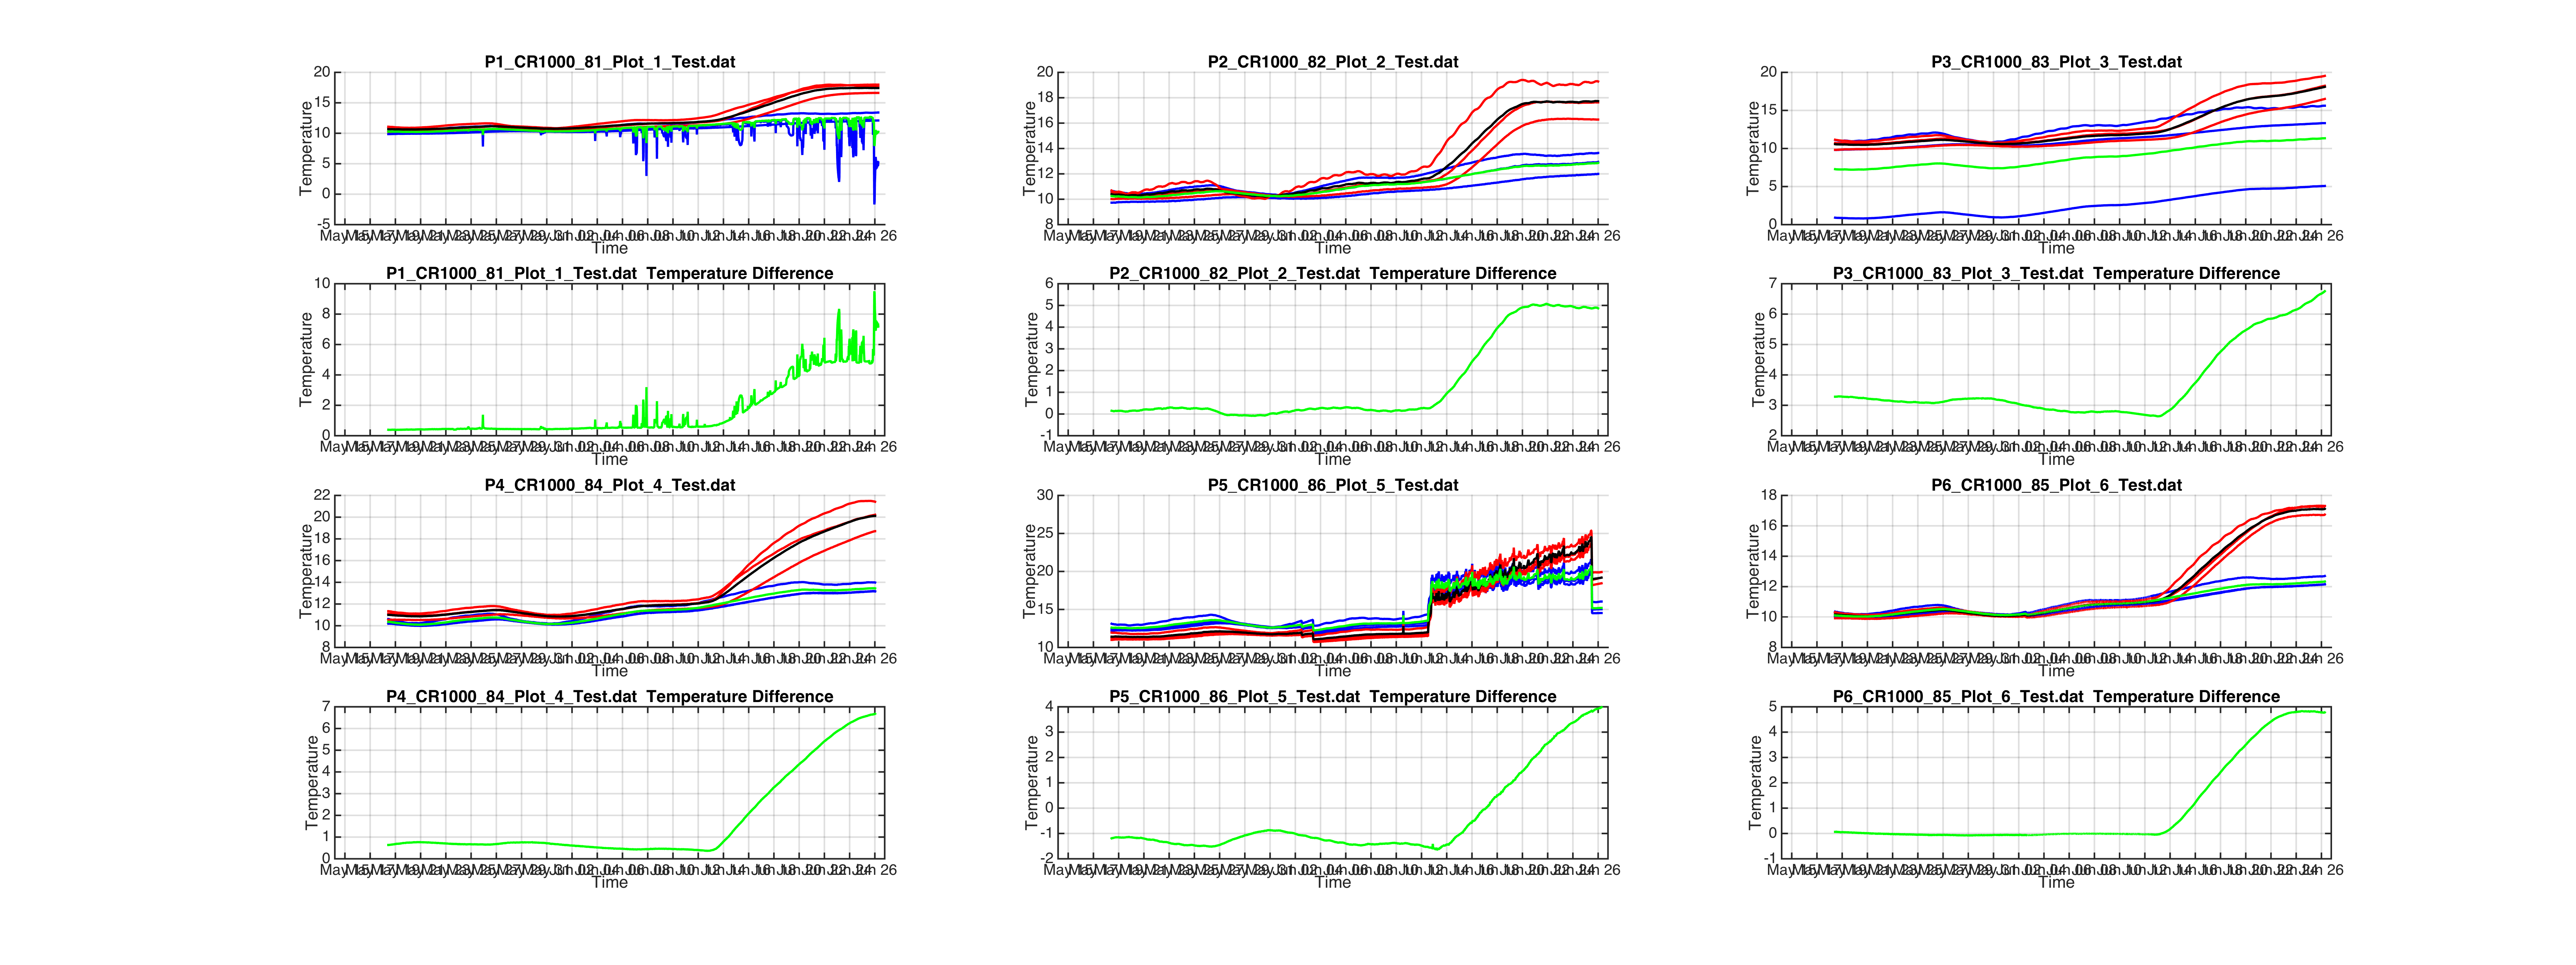
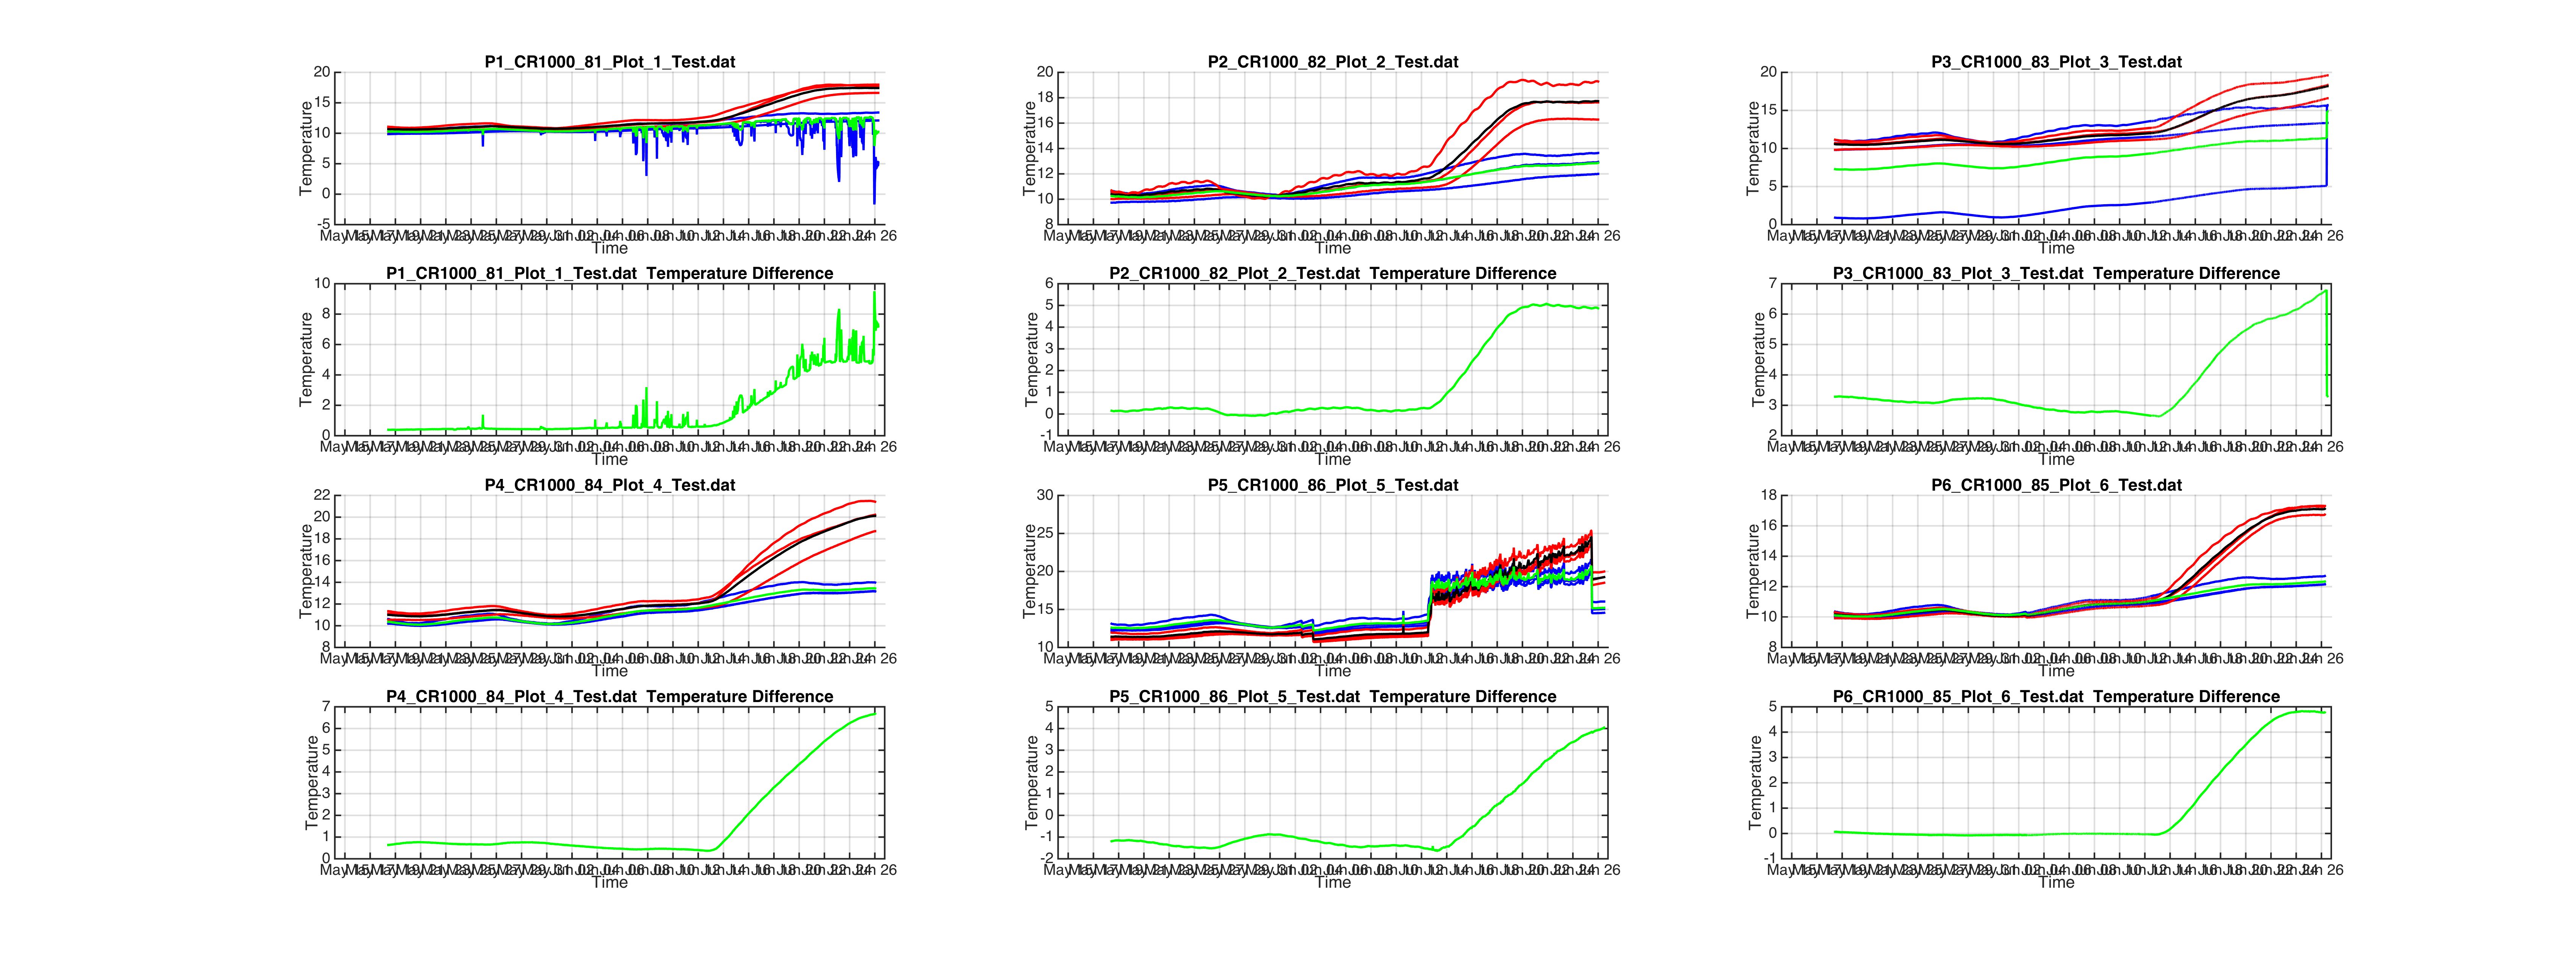
Update MATLAB plots

Changed region(s): [[0.4053, 0.7444, 0.6235, 0.8995], [0.8418, 0.0931, 0.9041, 0.1551]]

diff --git a/index.html b/index.html
@@ -11,21 +11,21 @@
 </head>
 <body>
   <h1>Blodgett Data Summary</h1>
-  <p style="text-align:center;">Last updated: 20260626_065208</p>
+  <p style="text-align:center;">Last updated: 20260626_115014</p>
 
   <div class="plot">
     <h2>Initial Heating / Temperature Summary</h2>
-    <img src="deep_temperature_summary.png?v=20260626_065208" alt="Temperature Summary">
+    <img src="deep_temperature_summary.png?v=20260626_115014" alt="Temperature Summary">
   </div>
 
   <div class="plot">
     <h2>Initial Heating / Temperature Summary</h2>
-    <img src="surface_temperature_summary.png?v=20260626_065208" alt="Temperature Summary">
+    <img src="surface_temperature_summary.png?v=20260626_115014" alt="Temperature Summary">
   </div>
 
   <div class="plot">
     <h2>Current Summary</h2>
-    <img src="current_summary.png?v=20260626_065208" alt="Current Summary">
+    <img src="current_summary.png?v=20260626_115014" alt="Current Summary">
   </div>
 </body>
 </html>